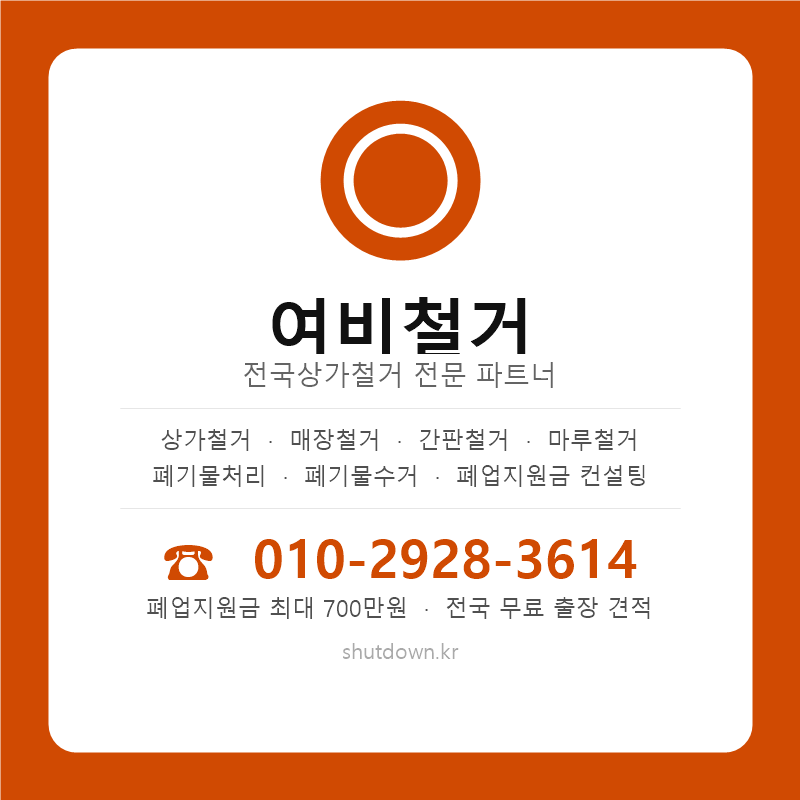
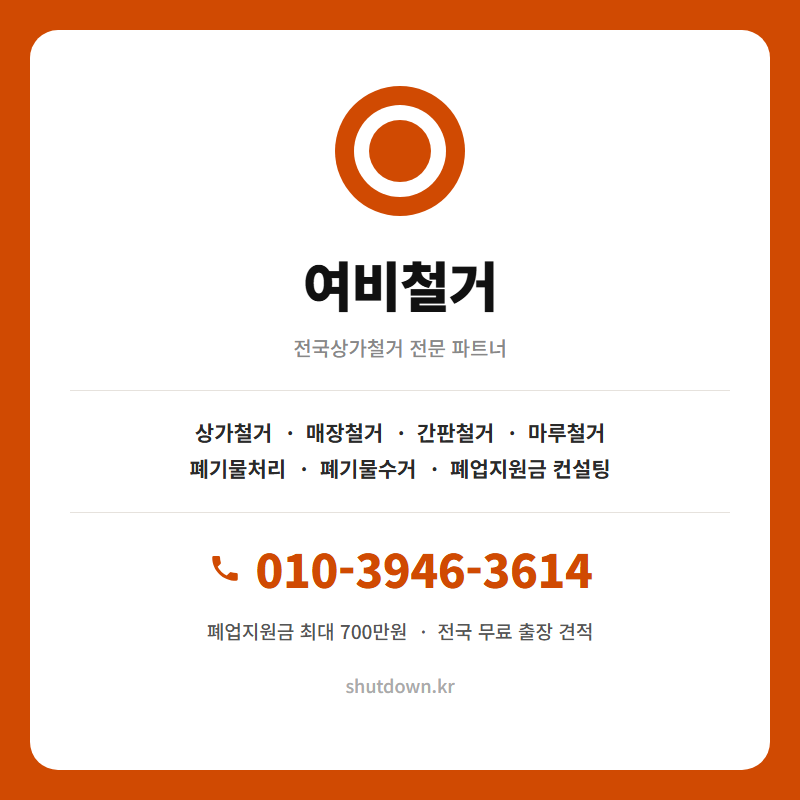
fix: 소셜 공유 미리보기 이미지(og-image.png) 전화번호 010-2928-3614 → 010-3946-3614 수정
og:image 캐시 무효화를 위해 og-image.png?v=2 쿼리 파라미터 추가.

diff --git a/index.html b/index.html
@@ -13,19 +13,19 @@
   <meta property="og:url" content="https://shutdown.kr/" />
   <meta property="og:title" content="상가철거 전문 여비철거 | 간판 철거 지원금·폐업철거견적 무료 상담" />
   <meta property="og:description" content="상가철거·매장철거·간판철거 전문 여비철거 — 상가 철거비용 정부지원 상담부터 무료 출장 견적까지 한 번에 진행합니다. 폐업지원금 최대 700만원, 전국 어디든 당일 방문 가능합니다." />
-  <meta property="og:image" content="https://shutdown.kr/og-image.png" />
+  <meta property="og:image" content="https://shutdown.kr/og-image.png?v=2" />
   <meta property="og:image:width" content="800" />
   <meta property="og:image:height" content="800" />
   <meta property="og:site_name" content="여비철거" />
   <meta name="twitter:card" content="summary_large_image" />
-  <meta name="twitter:image" content="https://shutdown.kr/og-image.png" />
+  <meta name="twitter:image" content="https://shutdown.kr/og-image.png?v=2" />
   <script type="application/ld+json">
   {
     "@context": "https://schema.org",
     "@type": "HomeAndConstructionBusiness",
     "name": "여비철거",
     "url": "https://shutdown.kr/",
-    "image": "https://shutdown.kr/og-image.png",
+    "image": "https://shutdown.kr/og-image.png?v=2",
     "telephone": "+82-10-3946-3614",
     "description": "전국 어디든 출장 가능한 상가철거·매장철거·간판철거·마루철거·폐기물처리 전문업체. 폐업지원금 컨설팅 무료 제공.",
     "areaServed": "KR",

diff --git a/매장철거-가이드.html b/매장철거-가이드.html
@@ -11,7 +11,7 @@
 <meta property="og:title" content="전국 매장철거 가이드 | 여비철거" />
 <meta property="og:description" content="매장철거 절차·비용·지원금을 지역별로 한눈에. 전국 어디든 무료 출장 견적." />
 <meta property="og:url" content="https://shutdown.kr/매장철거-가이드.html" />
-<meta property="og:image" content="https://shutdown.kr/og-image.png" />
+<meta property="og:image" content="https://shutdown.kr/og-image.png?v=2" />
 <script type="application/ld+json">{"@context": "https://schema.org", "@type": "BreadcrumbList", "itemListElement": [{"@type": "ListItem", "position": 1, "name": "홈", "item": "https://shutdown.kr/"}, {"@type": "ListItem", "position": 2, "name": "매장철거 가이드", "item": "https://shutdown.kr/매장철거-가이드.html"}]}</script>
 <script type="application/ld+json">{"@context": "https://schema.org", "@type": "FAQPage", "mainEntity": [
   {"@type": "Question", "name": "매장철거 비용은 어떻게 결정되나요?", "acceptedAnswer": {"@type": "Answer", "text": "매장 면적, 철거 범위(부분철거·전체철거), 폐기물 발생량, 인테리어 마감재 종류에 따라 평당 철거비용이 달라집니다. 정확한 비용은 현장 방문 실측 후 무료 견적으로 안내해 드립니다."}},
